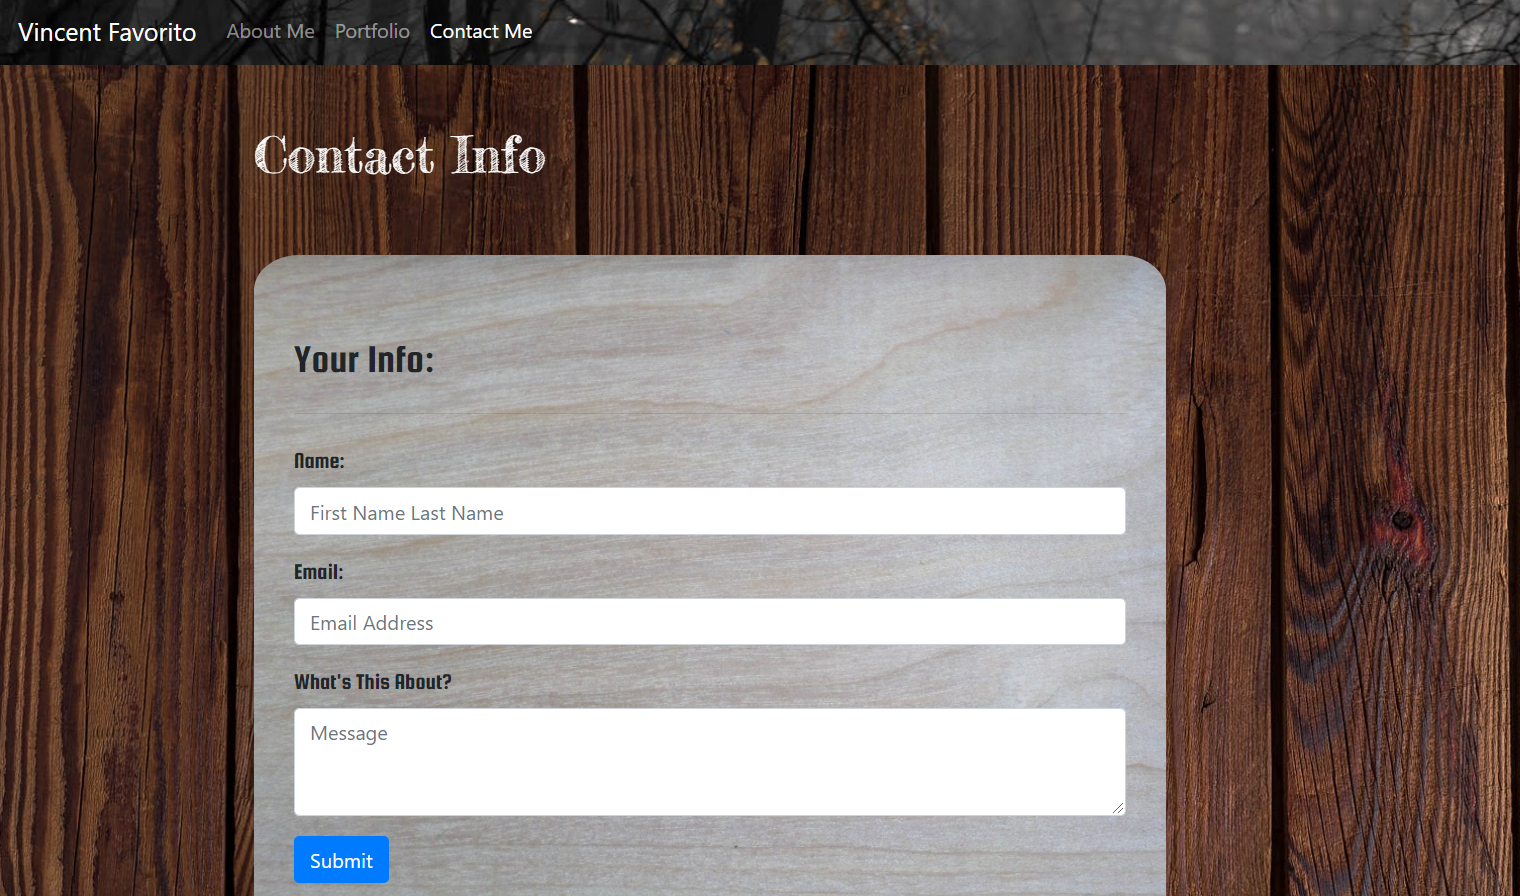
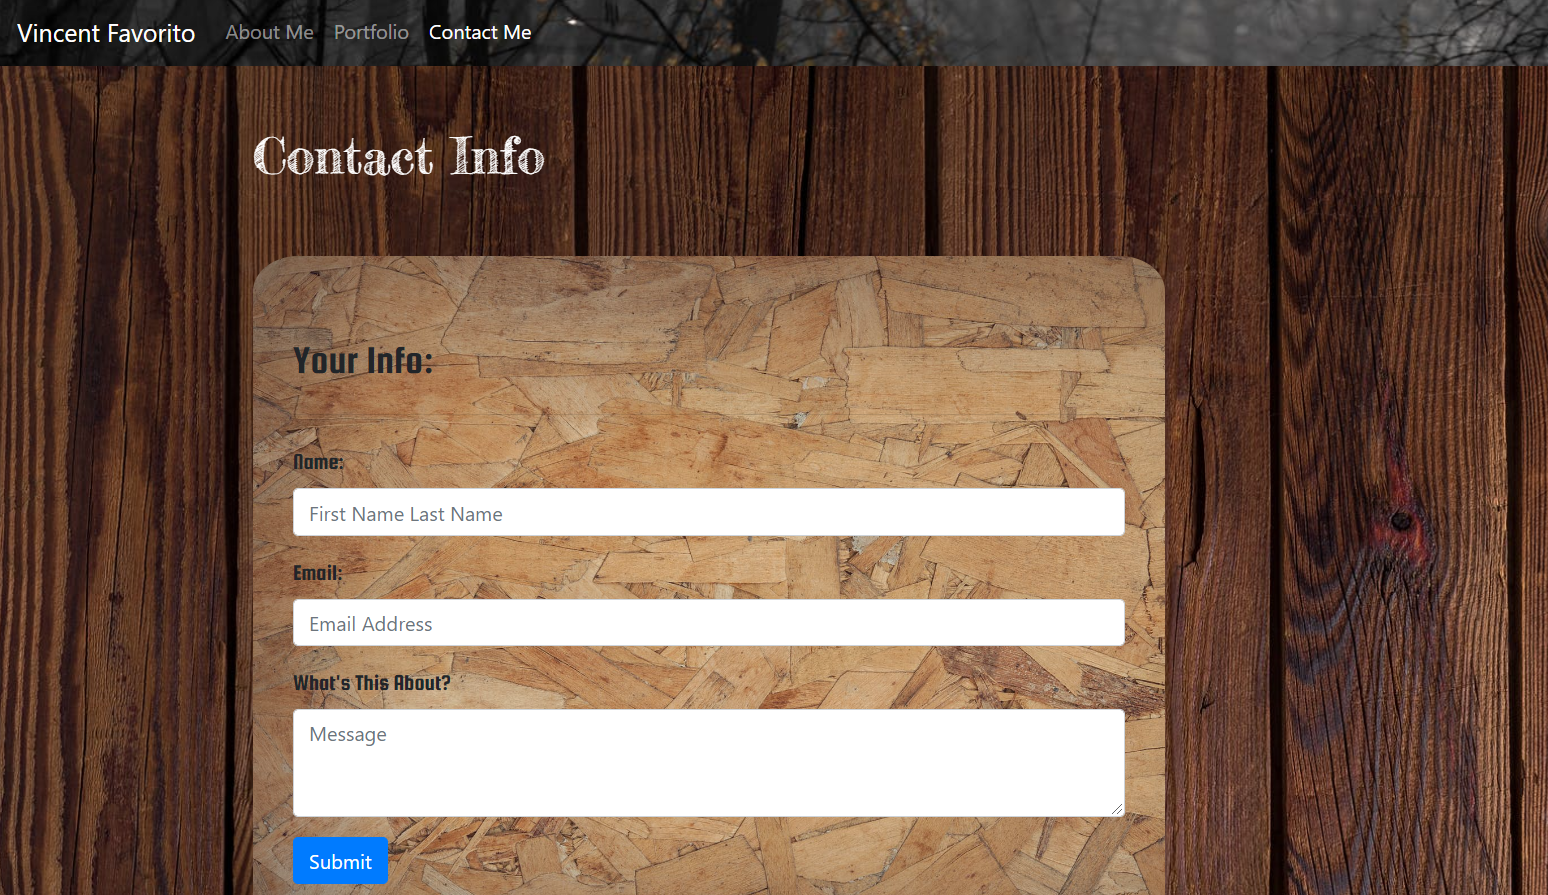
changed background image on contact page

diff --git a/style.css b/style.css
@@ -44,12 +44,16 @@ body{
     font-family: 'Squada One', cursive;
 }
 
-.elementBack{
+.aboutMeBack{
     background-image: url("https://images.pexels.com/photos/82256/pexels-photo-82256.jpeg?auto=compress&cs=tinysrgb&dpr=2&h=650&w=940");
     background-size: cover;
     border-radius:5%;
 }
-
+.contactMeBack{
+    background-image: url("https://images.pexels.com/photos/168442/pexels-photo-168442.jpeg?auto=compress&cs=tinysrgb&dpr=2&h=650&w=940");
+    background-size: cover;
+    border-radius:5%;
+}
 .headStyle{
     color: white;
     font-family: 'Fredericka the Great', cursive;

diff --git a/contact.html b/contact.html
@@ -54,7 +54,7 @@
         <div class="row">
             <div class="col-sm-8 col-xs-12">
                 <!-- This is a jumbotron -->
-                <article class="jumbotron elementBack">
+                <article class="jumbotron contactMeBack">
                     <h3 id="contactHead">
                         Your Info:
                     </h3>

diff --git a/index.html b/index.html
@@ -59,7 +59,7 @@
     <br>
     <!-- row 2 -->
     <div class="row">
-      <section class="col-sm-8 col-xs-12 elementBack">
+      <section class="col-sm-8 col-xs-12 aboutMeBack">
         <hr class="my-4">
         <img id="bioPic" src="Images/bioPic.PNG" alt="Vincent Picture">
         <h5 class="textStyle">
